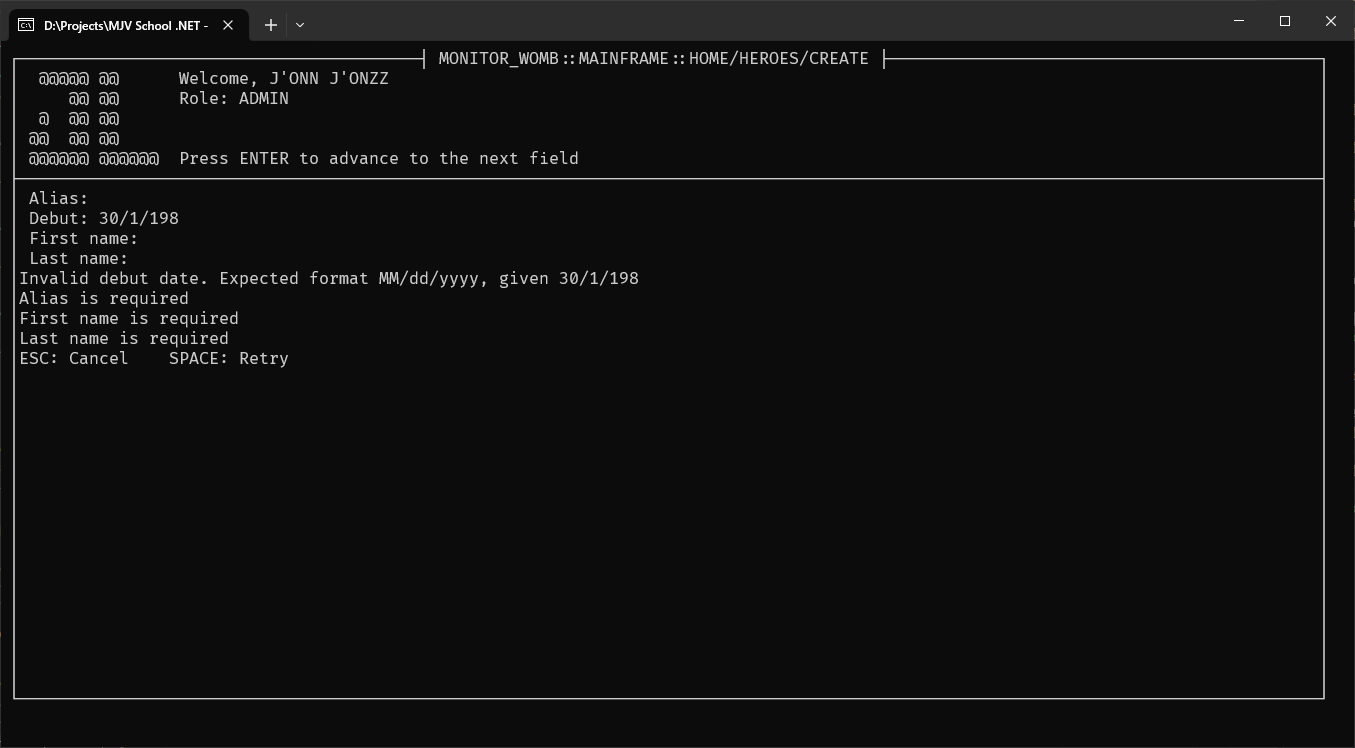
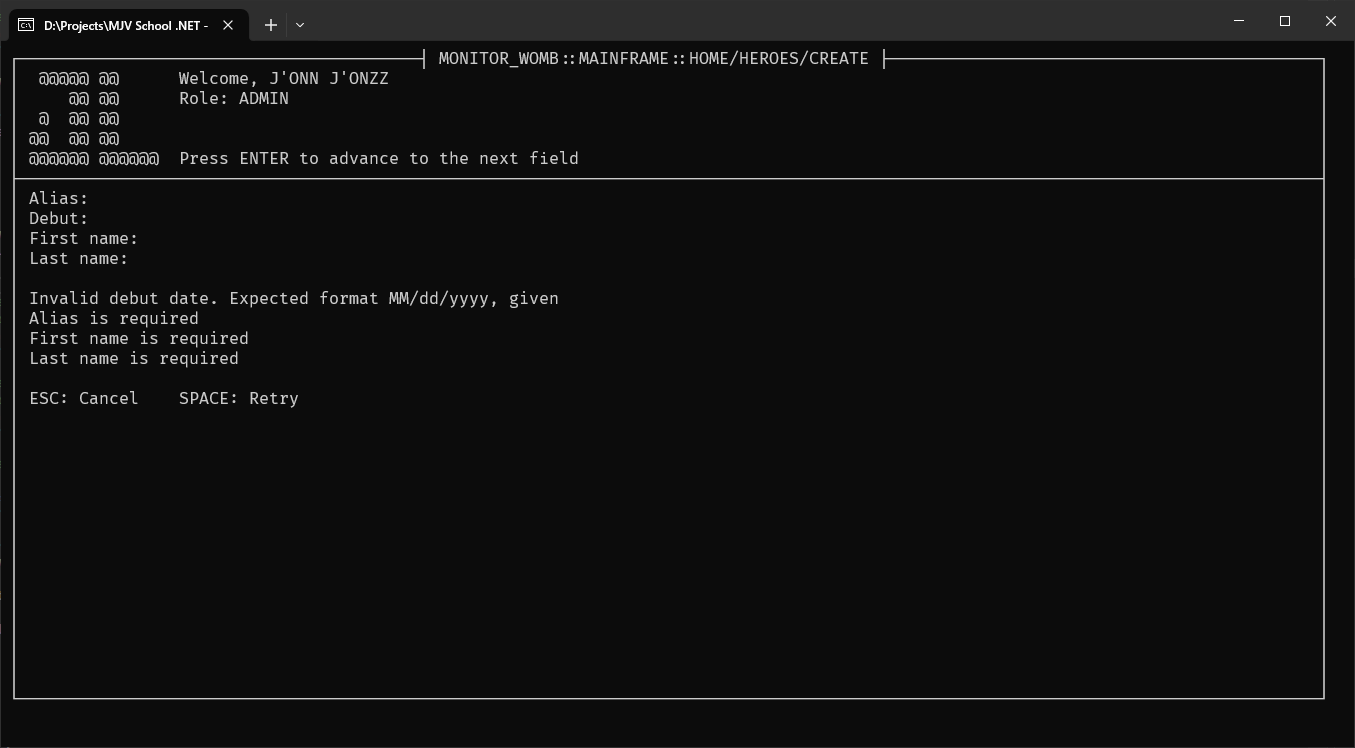
Conserte a formatação dos problemas de validação

diff --git a/src/CrudDaJustica.Cli.Lib/Forms/Form.cs b/src/CrudDaJustica.Cli.Lib/Forms/Form.cs
@@ -180,12 +180,16 @@ public class Form<T> : Frame where T : new()
 	// Summary: Displays each validation problem in a different line.
 	private bool DisplayValidationProblems()
 	{
+		DrawVerticalBorders(string.Empty, Console.WriteLine);
+
 		var validationProblems = validationProblemsRetriver.Invoke(FormData);
 		foreach (var validationProblem in validationProblems)
 		{
-			var formattedValidationProblems = string.Format(" {0} ", validationProblem);
-			DrawVerticalBorders(validationProblem, Console.WriteLine);
+			var formattedValidationProblem = string.Format(" {0} ", validationProblem);
+			DrawVerticalBorders(formattedValidationProblem, Console.WriteLine);
 		}
+		
+		DrawVerticalBorders(string.Empty, Console.WriteLine);
 		return validationProblems.Any();
 	}
 
@@ -201,7 +205,7 @@ public class Form<T> : Frame where T : new()
 	//			If firstKey is pressed then invokes the actions associated with the second and third keys, respectively.
 	private void DisplayPrompt(Keybinding firstKey, Keybinding secondKey, Keybinding thirdKey)
 	{
-		var prompt = string.Format("{0}    {1}", exitKey, firstKey);
+		var prompt = string.Format(" {0}    {1} ", exitKey, firstKey);
 		DrawVerticalBorders(prompt, Console.WriteLine);
 
 		ExitKeyPressed = false;
